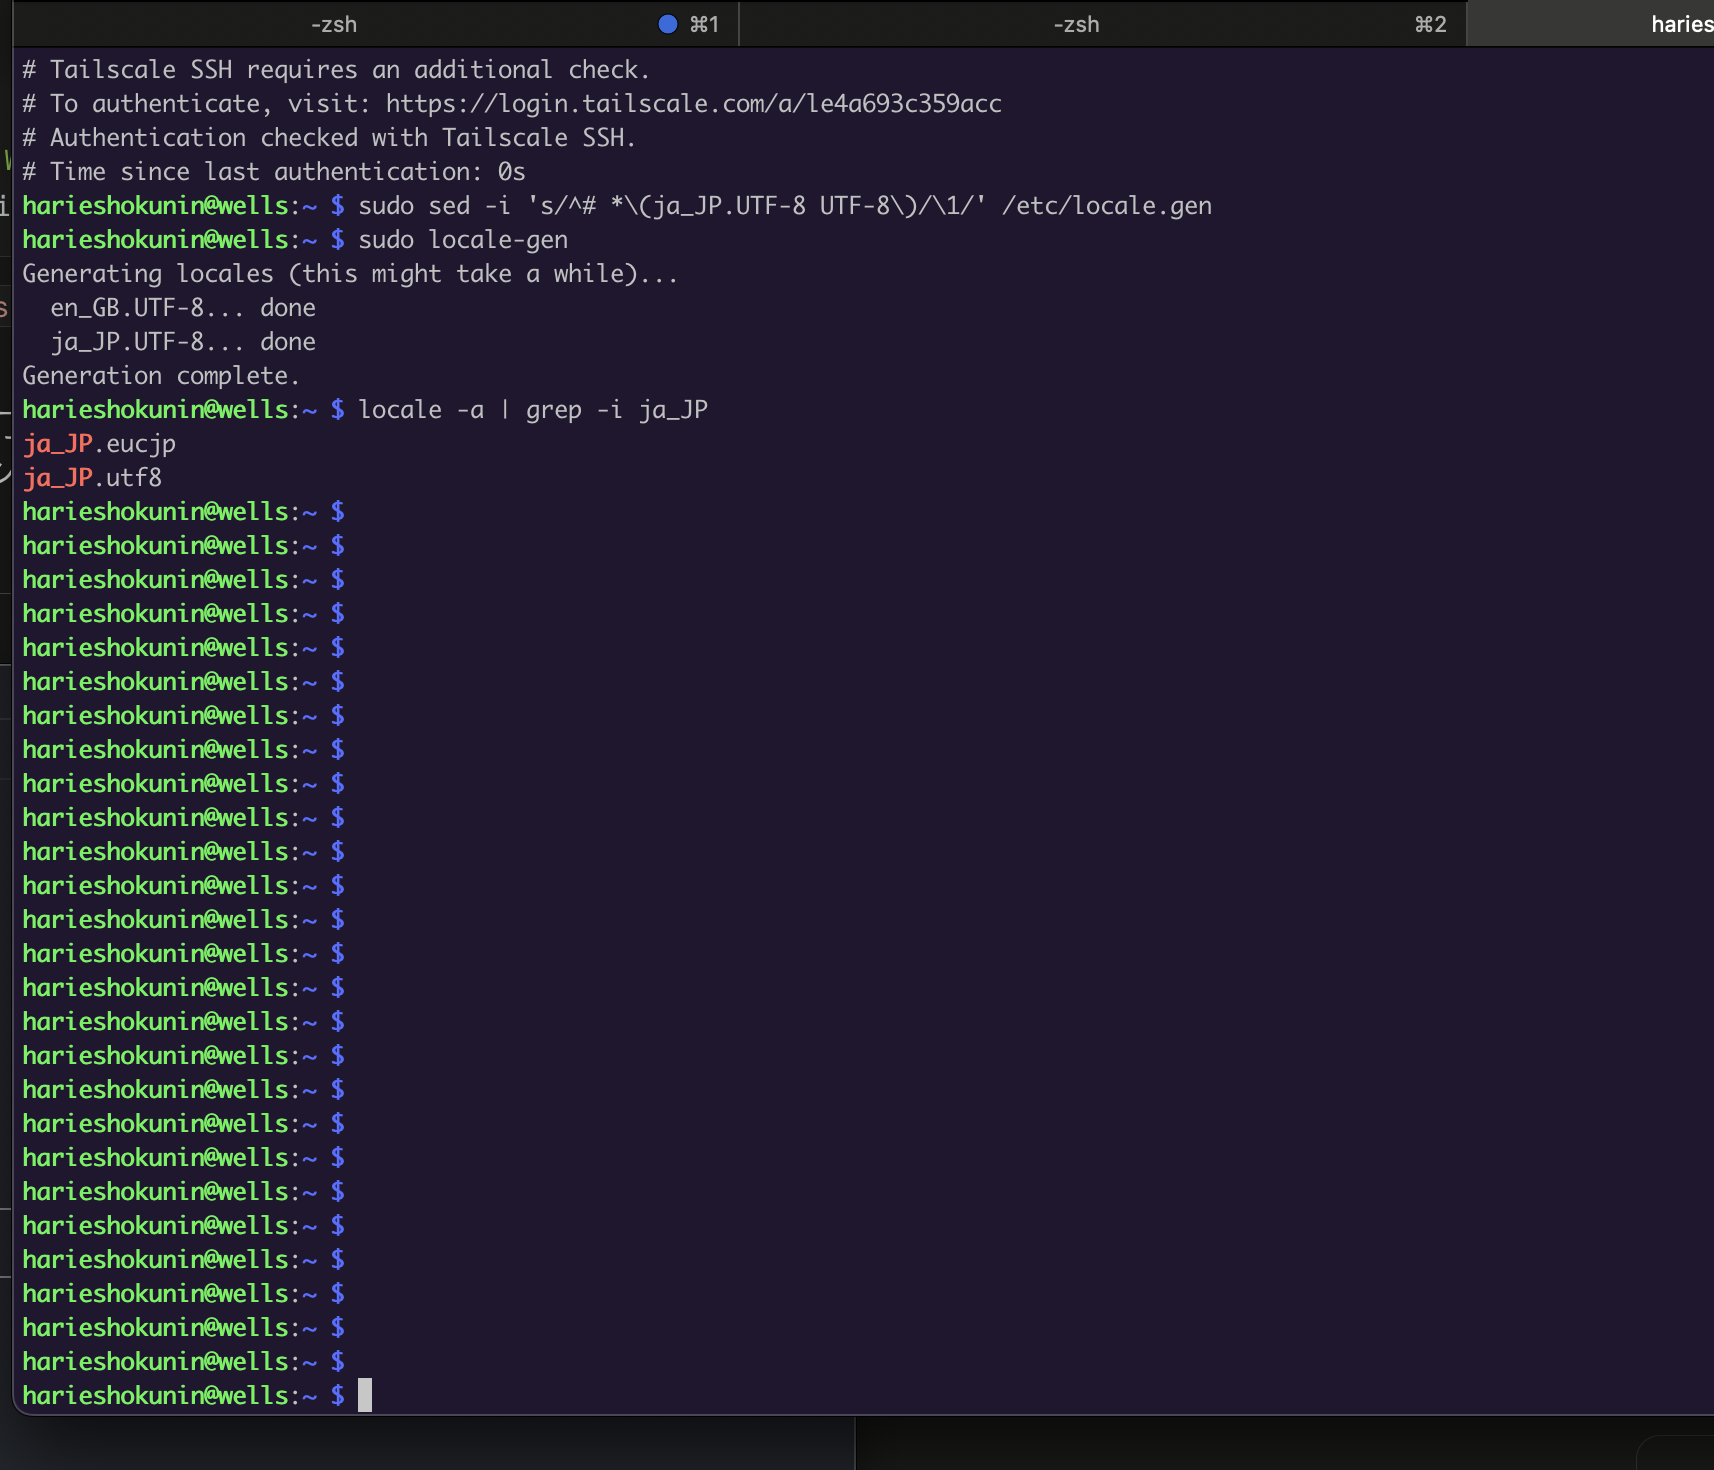
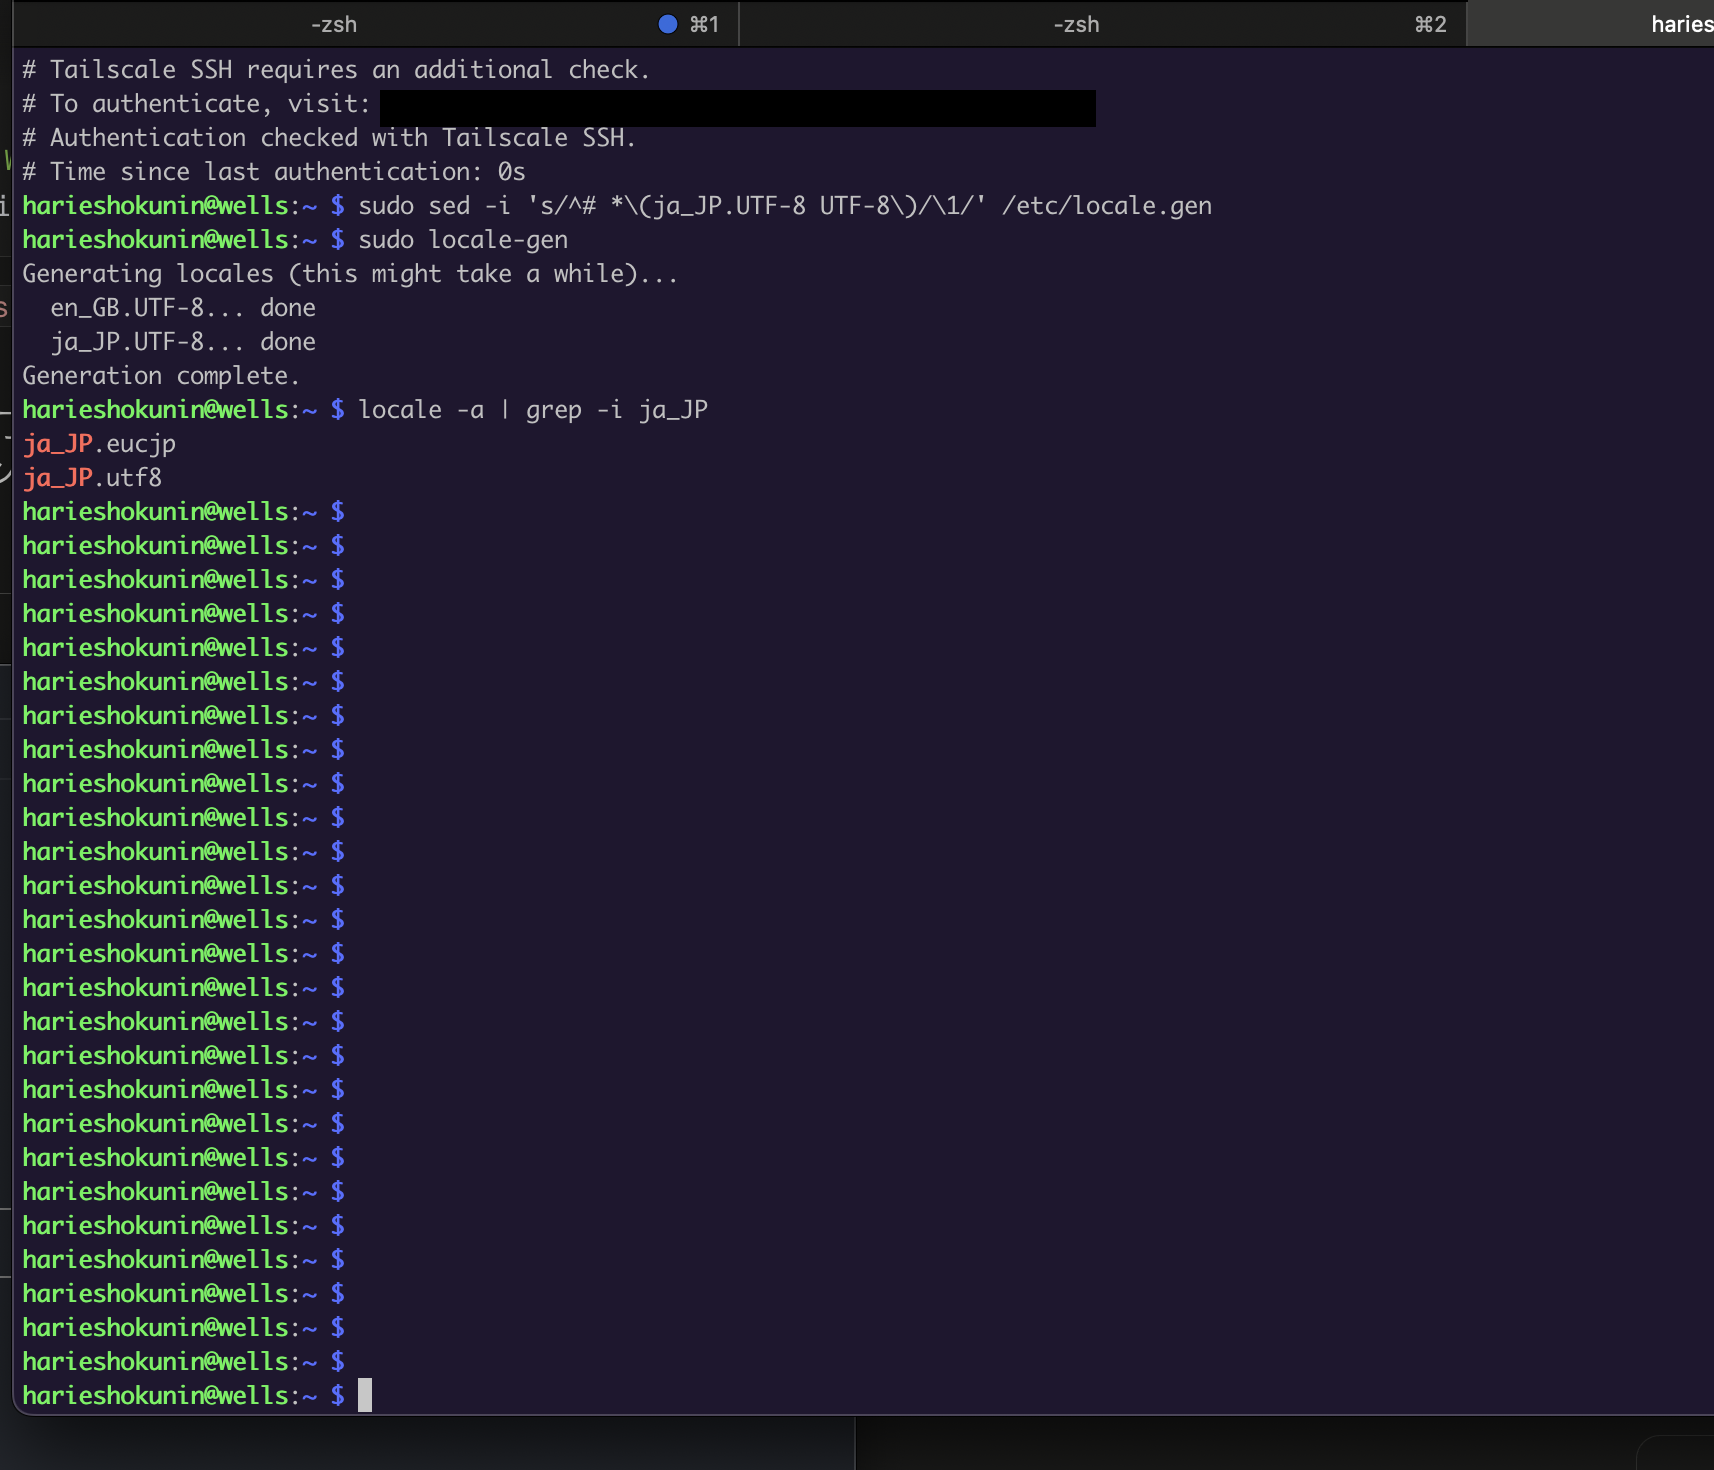
fix: 記事 #4 (openclaw-04) AIレビュー対応 — Tailscale 認証 URL を画像内マスク + EDITOR 単一コマンド扱いの補足追加 + rsync コマンド (-aHAXx) 付録追加
- images/openclaw-04/02-tailscale-ssh-locale.png: 画像上部の Tailscale SSH 認証 URL (login.tailscale.com/a/...) を黒矩形でマスク
- 4.1 EDITOR の罠: \`\$EDITOR\` が \`EDITOR=vi\` 想定で sh -c に exec される設計上の前提を補足。VISUAL 系も同じ前提
- 付録: rsync コマンド: 実際に使った \`-aHAXx --numeric-ids --info=progress2\` + 除外パターンと各オプションの意図を追記

Changed region(s): [[0.2165, 0.0612, 0.6494, 0.0918]]

diff --git a/articles/openclaw-04-nvme-boot-migration.md b/articles/openclaw-04-nvme-boot-migration.md
@@ -151,6 +151,8 @@ EDITOR='sed -i s/0xf461/0xf416/' rpi-eeprom-config --edit
 
 `rpi-eeprom-config --edit` は内部で `sh -c "$EDITOR $FILE"` を実行するため、**`EDITOR` の値全体が単一コマンド名** として解釈されてしまいます。スペース込みで `not found` でした。
 
+`$EDITOR` は元々 `EDITOR=vi` のような **単一バイナリ名の代入** を想定している環境変数で、`rpi-eeprom-config` 側もそのつもりで `sh -c "$EDITOR $FILE"` の形で素直に exec しています。なのでこちらが「`sed -i s/.../.../`」のように引数付きの 1 行スクリプトを突っ込もうとすると、シェルからは `sed -i s/.../.../` という名前のバイナリを探しに行く動きになって `not found` という、ある意味で正しい挙動になっていました。`VISUAL` 系の変数全般も同じ前提で動いているので、引数を渡したいときは小さな wrapper script を `EDITOR=/path/to/wrapper.sh` で渡すか、後述の `--apply` 経路に切り替えるのが穏当です。
+
 ### 4.2 heredoc の罠: インデントで EOF が認識されない
 
 代替案として helper script を heredoc で書こうとしましたが、**コピペ時のインデント保持** で `EOF` が行頭ではなくスペース付きになり、bash が終端を認識せず ^C 連打で抜ける羽目になりました。
@@ -249,3 +251,33 @@ BOOT_ORDER=0xf416
 - **MBR (msdos) 維持** ← SD 既存テーブルが MBR で、`cmdline.txt` / `fstab` が PARTUUID `XXXXXXXX-NN` 形式に依存していました。GPT に変えるとフォーマット差で書換コストが増えるので避けました
 - **`BOOT_ORDER=0xf416`** ← NVMe(6) → SD(1) → USB(4) → restart(f) の優先順です
 - **SD カードは抜かない** ← NVMe boot の rollback 経路として温存しています
+
+## 付録: rsync コマンド (root / boot 用)
+
+クローン側で実際に使ったオプションです。後追いで作業される方の取っ掛かりになれば。
+
+root のコピー (SD の `/` → NVMe の `/mnt/nvme-root`):
+
+```bash
+sudo rsync -aHAXx --numeric-ids --info=progress2 \
+  --exclude={'/dev/*','/proc/*','/sys/*','/tmp/*','/run/*','/mnt/*','/media/*','/lost+found','/boot/firmware/*'} \
+  / /mnt/nvme-root/
+```
+
+`/boot/firmware` は別ファイルシステム (FAT32) なので、別途 root だけ rsync しました。
+
+```bash
+sudo rsync -aHAXx --numeric-ids --info=progress2 \
+  /boot/firmware/ /mnt/nvme-boot/
+```
+
+オプションの意図は次の通りです。
+
+- `-a` ← `-rlptgoD` のセット。パーミッション / オーナー / 時刻 / シンボリックリンクをまとめて維持してくれます
+- `-H` ← ハードリンクを保ったままコピーします (`/usr/bin` 配下の busybox 系で効きます)
+- `-A` ← POSIX ACL を維持します (Tailscale や systemd 周辺で稀に効きます)
+- `-X` ← 拡張属性 (xattr) を維持します。SELinux/capabilities を使っていなくても、`getcap` 系の権限を落とさないために入れました
+- `-x` ← ファイルシステム境界をまたがない指定です。`/proc` `/sys` 等を `--exclude` で削っているので二重防御ですが、入れておくと安心でした
+- `--numeric-ids` ← UID/GID を数値のままコピーします。クローン先のユーザー DB が同期される前提なら名前解決にしてもよいですが、こちらの方が事故が少なかったです
+
+`-aHAXx` の組み合わせは ArchWiki / `man rsync` でも「フルバックアップ用途の鉄板セット」として紹介されています。FAT32 へのコピーは ACL/xattr が無視されるだけで害はないので、root と boot で同じオプションのままにしておきました。